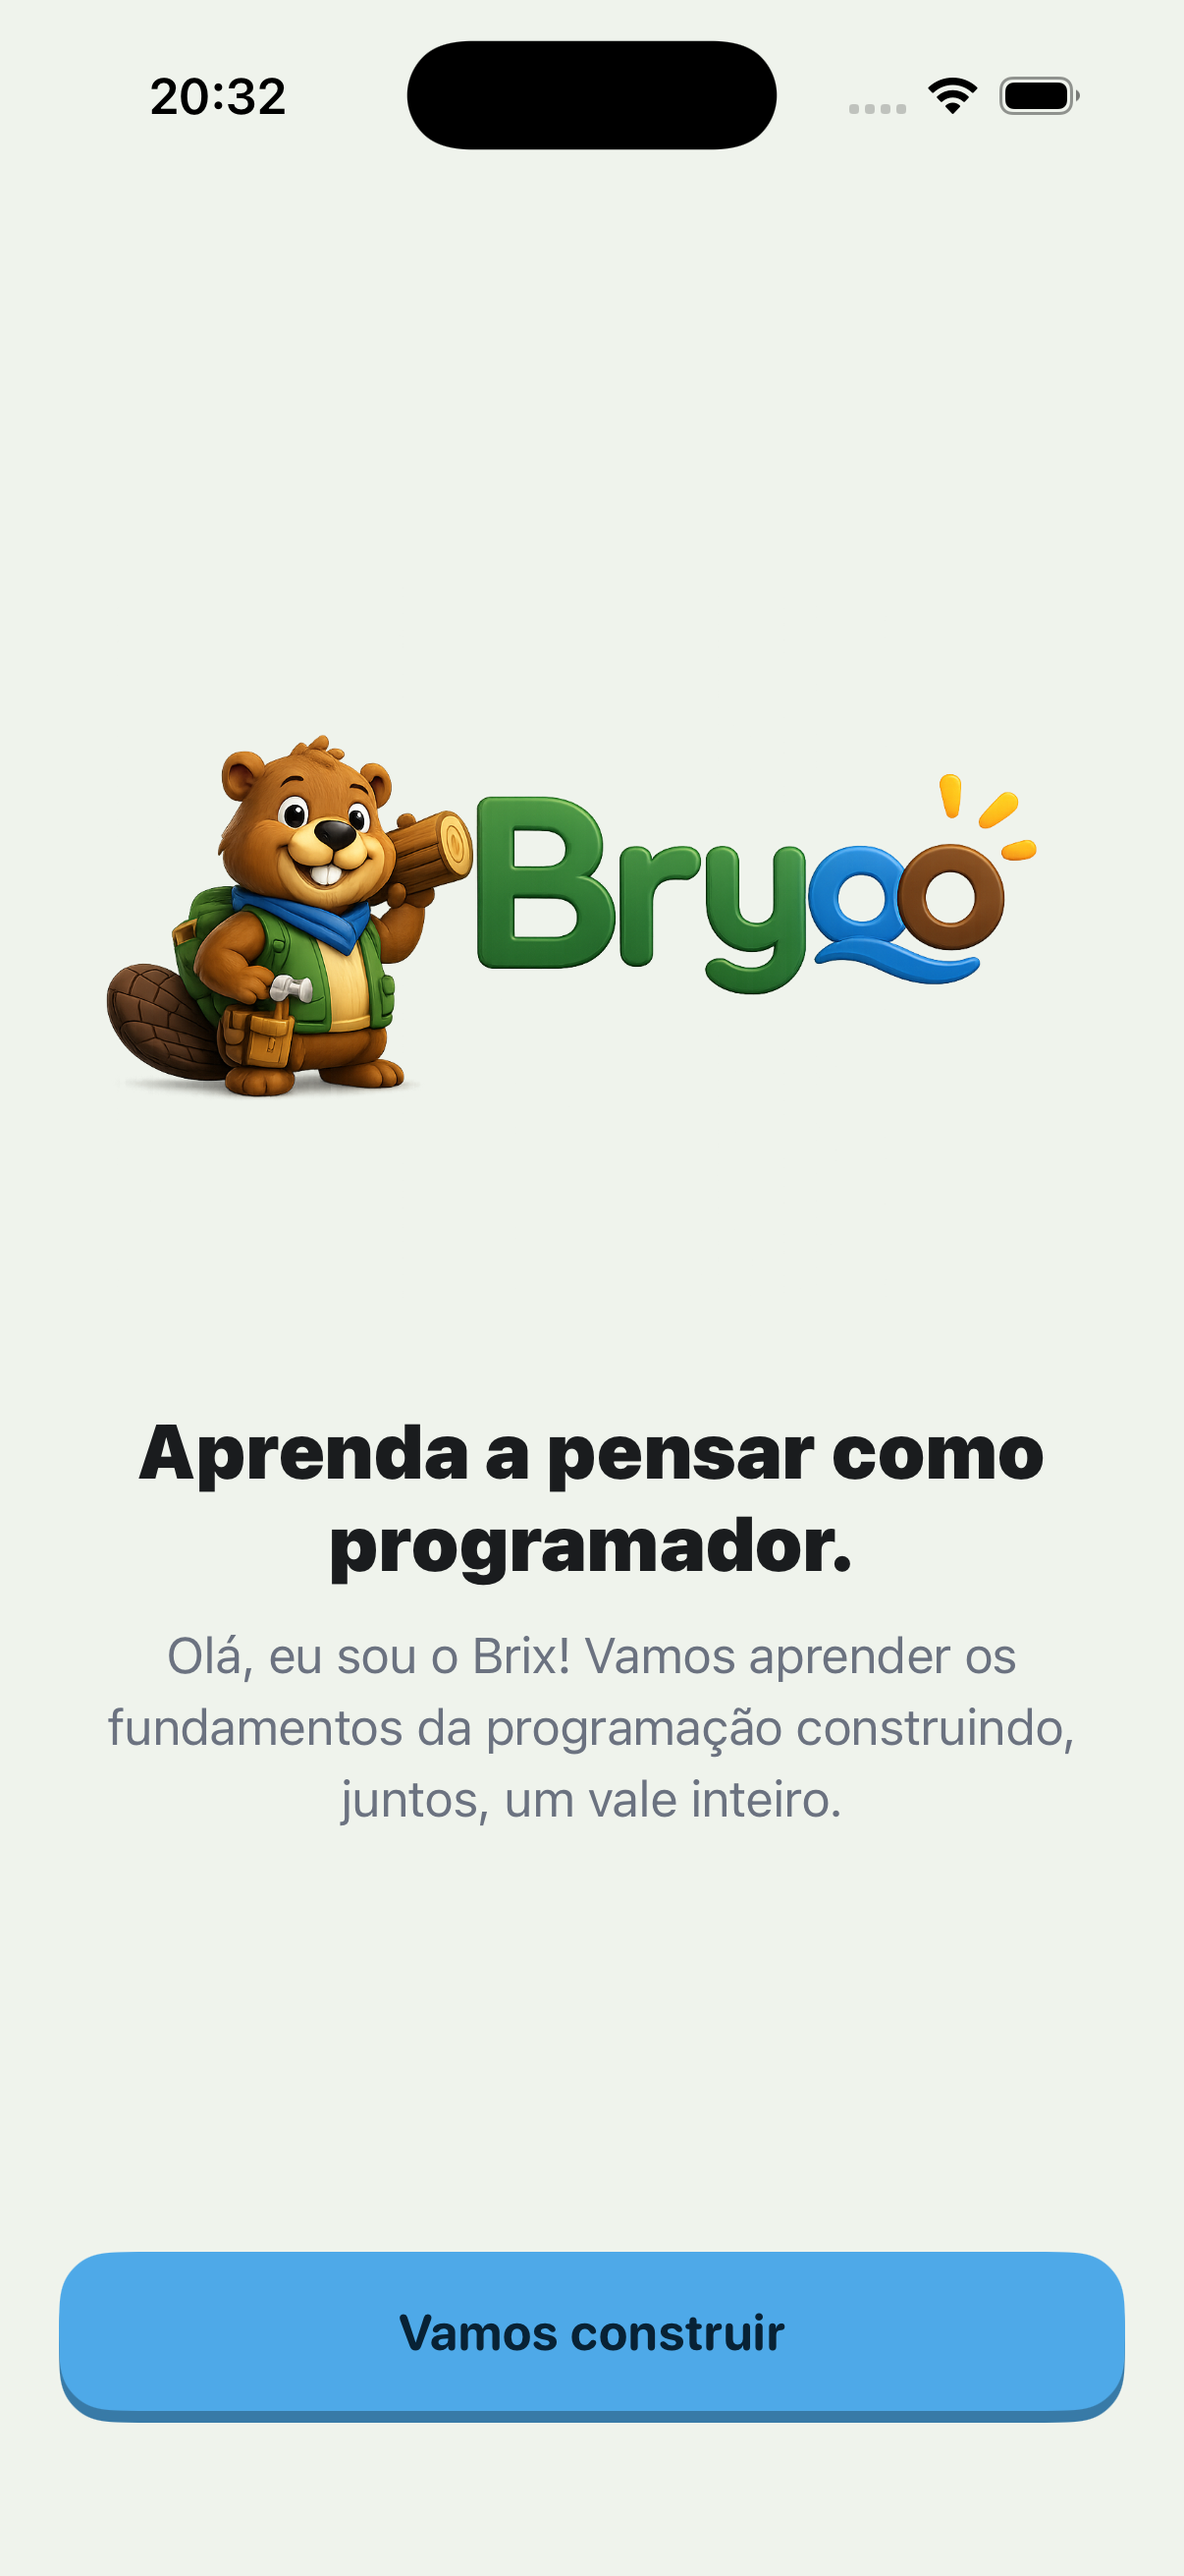
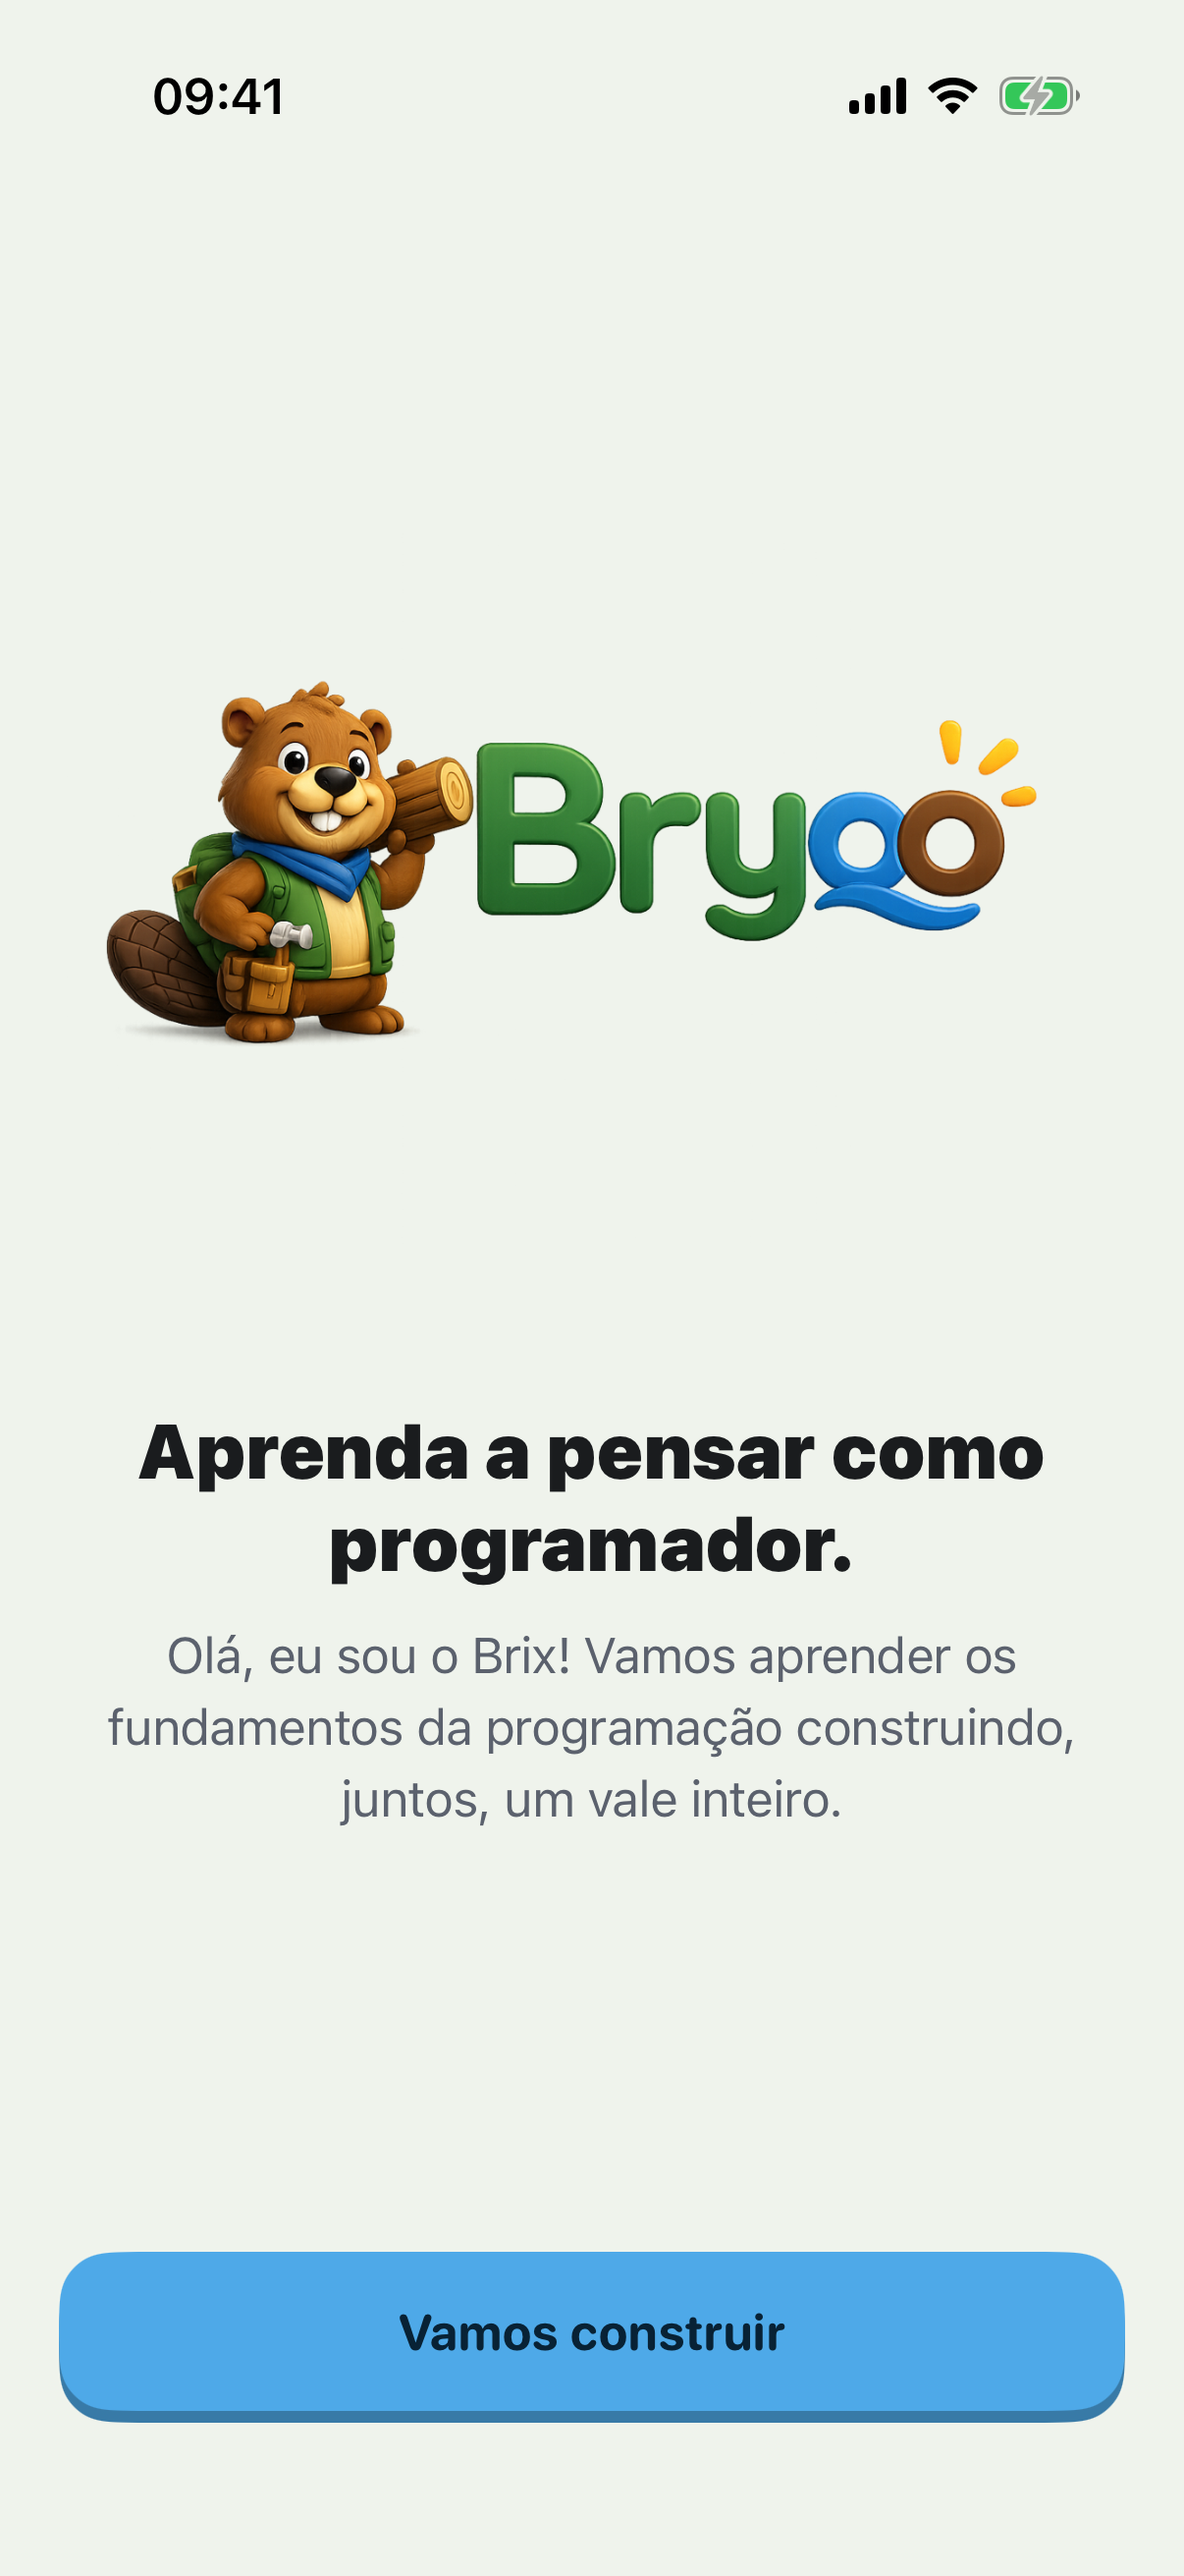
chore: security review, Firestore rules, docs and screenshots
- Add firestore.rules: owner-only access to users/{uid}, with every field
  the app writes typed and bounded; deletes denied.
- Sign in with Apple: fail when SecRandomCopyBytes fails instead of using
  a zeroed nonce; stop requesting the email scope.
- Remote catalog: drop lessons with ids Firestore can't store ("/", "..",
  __x__, empty, >100 chars) and XP or minutes out of range.
- Limit the display name to 40 characters and Unicode scalars, so the
  backup isn't rejected by the rules; clamp hearts read from the cloud.
- Profile: the support text no longer claims data isn't shared.
- Tests: CloudInputTests plus unusable-lesson cases (187 total).
- README: portfolio status, security and privacy section with known
  gaps, updated numbers, structure and roadmap.
- Regenerate the README screenshots on iPhone 17 (light and dark), add
  the Valley, remove the unused lesson screenshot.

diff --git a/bryco-appTests/App/CloudInputTests.swift b/bryco-appTests/App/CloudInputTests.swift
@@ -1,0 +1,51 @@
+import Foundation
+import Testing
+@testable import bryco_app
+
+/// What comes back from the cloud, and what the learner types, stays inside what the app and
+/// the cloud rules (firestore.rules) accept.
+@MainActor
+@Suite("Cloud input")
+struct CloudInputTests {
+    let state = BryqoAppState(inMemory: true)
+
+    @Test("Hearts from the cloud stay between zero and the maximum", arguments: [
+        (-3, 0), (0, 0), (3, 3), (5, 5), (999, 5),   // 5 is BryqoAppState.heartsMax
+    ])
+    func heartsClamped(remote: Int, expected: Int) {
+        var snapshot = FirestoreUserSnapshot()
+        snapshot.hearts = remote
+        snapshot.heartsUpdatedAt = Date()
+
+        state.mergeRemote(snapshot)
+
+        #expect(state.progress.hearts == expected)
+    }
+
+    @Test("A long name is kept to the length the cloud rules accept")
+    func longNameIsCut() {
+        let longName = String(repeating: "a", count: 200)
+
+        state.completeOnboarding(displayName: longName, experience: "Iniciante", goal: "Construir uma base", dailyGoalMinutes: 10)
+
+        #expect(state.profile?.displayName.count == BryqoAppState.maxDisplayNameLength)
+    }
+
+    @Test("A name of emoji is cut by Unicode scalars, which is what the cloud rules count")
+    func emojiNameFitsTheRules() {
+        let family = "👨👩👧👦"   // one character, seven scalars
+        let name = BryqoAppState.limitedName(String(repeating: family, count: 40))
+
+        #expect(name.unicodeScalars.count <= BryqoAppState.maxDisplayNameLength)
+        #expect(name.count == BryqoAppState.maxDisplayNameLength / family.unicodeScalars.count)
+    }
+
+    @Test("Spaces around the name are trimmed, and a blank name falls back", arguments: [
+        ("  Jenni  ", "Jenni"), ("   ", "construtor"),
+    ])
+    func nameTrimmed(typed: String, expected: String) {
+        state.completeOnboarding(displayName: typed, experience: "Iniciante", goal: "Construir uma base", dailyGoalMinutes: 10)
+
+        #expect(state.profile?.displayName == expected)
+    }
+}

diff --git a/bryco-app/App/BryqoAppState.swift b/bryco-app/App/BryqoAppState.swift
@@ -308,7 +308,8 @@ final class BryqoAppState {
     func mergeRemote(_ remote: FirestoreUserSnapshot) {
         progress.xp = max(progress.xp, remote.xp)
         progress.streakDays = max(progress.streakDays, remote.streakDays)
-        progress.hearts = remote.hearts
+        // The cloud copy is input like any other: keep it inside what the app can show.
+        progress.hearts = min(max(remote.hearts, 0), BryqoAppState.heartsMax)
         progress.heartsUpdatedAt = remote.heartsUpdatedAt
         progress.completedLessonIds.formUnion(remote.completedLessonIds)
 
@@ -528,9 +529,25 @@ final class BryqoAppState {
 
     // MARK: - Onboarding
 
+    /// Longest name kept. The cloud rules (firestore.rules) reject a longer one, which would stop
+    /// the whole backup from saving.
+    static let maxDisplayNameLength = 40
+
+    /// At most `maxDisplayNameLength` characters, and never more Unicode scalars than that: the
+    /// rules count scalars, and one emoji can be several of them.
+    static func limitedName(_ name: String) -> String {
+        var result = ""
+        for character in name.prefix(maxDisplayNameLength) {
+            guard result.unicodeScalars.count + character.unicodeScalars.count <= maxDisplayNameLength else { break }
+            result.append(character)
+        }
+        return result
+    }
+
     func completeOnboarding(displayName: String, experience: String, goal: String, dailyGoalMinutes: Int) {
+        let name = Self.limitedName(displayName.trimmingCharacters(in: .whitespacesAndNewlines))
         profile = OnboardingProfile(
-            displayName: displayName.trimmingCharacters(in: .whitespacesAndNewlines).isEmpty ? "construtor" : displayName,
+            displayName: name.isEmpty ? "construtor" : name,
             experience: experience,
             goal: goal,
             dailyGoalMinutes: dailyGoalMinutes,

diff --git a/bryco-app/Core/Firebase/BryqoAuthManager.swift b/bryco-app/Core/Firebase/BryqoAuthManager.swift
@@ -70,9 +70,10 @@ final class BryqoAuthManager: NSObject {
     func signInWithApple() async throws {
         guard appleSignIn == nil else { throw BryqoAuthError.signInInProgress }
 
-        let nonce = randomNonce()
+        let nonce = try randomNonce()
         let request = ASAuthorizationAppleIDProvider().createRequest()
-        request.requestedScopes = [.fullName, .email]
+        // Only what the app uses: the name. It never reads the email, so it doesn't ask for it.
+        request.requestedScopes = [.fullName]
         request.nonce = sha256(nonce)
 
         defer { appleSignIn = nil }
@@ -162,9 +163,14 @@ final class BryqoAuthManager: NSObject {
 
     // MARK: - Helpers
 
-    private func randomNonce(length: Int = 32) -> String {
+    /// A one-time value that ties the Apple credential to this request, so a captured token can't
+    /// be replayed. If the system can't produce random bytes, signing in fails rather than
+    /// continuing with a predictable nonce.
+    private func randomNonce(length: Int = 32) throws -> String {
         var bytes = [UInt8](repeating: 0, count: length)
-        _ = SecRandomCopyBytes(kSecRandomDefault, bytes.count, &bytes)
+        guard SecRandomCopyBytes(kSecRandomDefault, bytes.count, &bytes) == errSecSuccess else {
+            throw BryqoAuthError.invalidCredential
+        }
         let charset = Array("0123456789ABCDEFGHIJKLMNOPQRSTUVXYZabcdefghijklmnopqrstuvwxyz-._")
         return String(bytes.map { charset[Int($0) % charset.count] })
     }

diff --git a/bryco-appTests/Content/RemoteContentTests.swift b/bryco-appTests/Content/RemoteContentTests.swift
@@ -116,6 +116,23 @@ struct ContentCatalogTests {
         #expect(mapped.lessons.count == unit.lessons.count - 1)
     }
 
+    @Test("A lesson with an id or numbers the app can't use is dropped", arguments: [
+        ("users/x", 15, 4),               // "/" in a Firestore document id is a path
+        ("", 15, 4),
+        ("..", 15, 4),
+        ("ok-id", Int.max, 4),            // would overflow the XP total
+        ("ok-id", -5, 4),
+        ("ok-id", 15, 0),
+    ])
+    func unusableLessonIsDropped(id: String, xpReward: Int, minutes: Int) throws {
+        let first = try #require(ContentCatalogDTO(version: 1, content: [bundled[0]]).units.first?.lessons.first)
+        let lesson = LessonDTO(id: id, title: first.title, subtitle: first.subtitle,
+                               estimatedMinutes: minutes, xpReward: xpReward,
+                               materialReward: first.materialReward, steps: first.steps)
+
+        #expect(lesson.toDomain() == nil)
+    }
+
     @Test("Invalid exercises and unknown step kinds are rejected")
     func invalidStepsAreRejected() {
         let wrongAnswer = ExerciseDTO(prompt: "?", options: [OptionDTO(id: "a", text: "A")],

diff --git a/bryco-app/Core/Content/ContentCatalogMapping.swift b/bryco-app/Core/Content/ContentCatalogMapping.swift
@@ -30,7 +30,22 @@ nonisolated extension UnitDTO {
 }
 
 nonisolated extension LessonDTO {
+    /// Highest XP a lesson can award. The bundled lessons give 15 to 30.
+    static let maxXpReward = 100
+    static let maxIdLength = 100
+
+    /// The id becomes a Firestore document id: a "/" there would be read as a path and crash.
+    var hasValidId: Bool {
+        !id.isEmpty && id.count <= Self.maxIdLength && !id.contains("/")
+            && id != "." && id != ".." && !(id.hasPrefix("__") && id.hasSuffix("__"))
+    }
+
     func toDomain() -> Lesson? {
+        // The catalog comes from the network: numbers out of range would overflow the XP total
+        // or push it past what the cloud rules accept.
+        guard hasValidId, (0...Self.maxXpReward).contains(xpReward), (1...60).contains(estimatedMinutes) else {
+            return nil
+        }
         let mapped = steps.map { $0.toDomain() }
         // Every step must be valid: skipping one silently could leave a lesson that no
         // longer makes sense, so the whole lesson is dropped instead.

diff --git a/bryco-app/Features/Onboarding/OnboardingView.swift b/bryco-app/Features/Onboarding/OnboardingView.swift
@@ -269,7 +269,12 @@ struct OnboardingView: View {
                                     lineWidth: 1.5
                                 )
                         }
-                        .onChange(of: displayName) { _, _ in didAttemptContinue = false }
+                        .onChange(of: displayName) { _, name in
+                            didAttemptContinue = false
+                            // Stop typing at the limit instead of cutting the name later.
+                            let limited = BryqoAppState.limitedName(name)
+                            if limited != name { displayName = limited }
+                        }
 
                     if didAttemptContinue && !isNameValid {
                         Label("Digite seu nome para continuar.", systemImage: "exclamationmark.circle.fill")

diff --git a/bryco-app/Features/Profile/ProfileView.swift b/bryco-app/Features/Profile/ProfileView.swift
@@ -380,7 +380,7 @@ struct ProfileView: View {
             VStack(alignment: .leading, spacing: BryqoTheme.Spacing.lg) {
                 Label("Login anônimo, Apple ou Google", systemImage: "person.badge.shield.checkmark.fill")
                 Label("Backup na nuvem quando há internet", systemImage: "icloud")
-                Label("Dados não são compartilhados com terceiros", systemImage: "lock.fill")
+                Label("Seus dados não são vendidos nem usados para anúncios", systemImage: "lock.fill")
             }
             .font(.body.weight(.semibold))
             .foregroundStyle(BryqoTheme.textSecondary)
